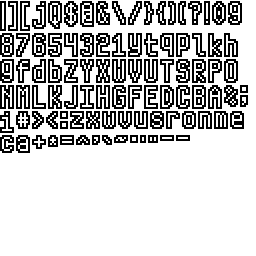
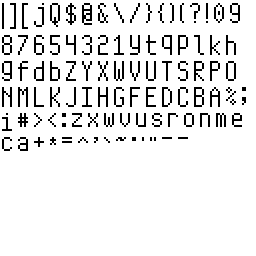
Pathfinding improvements, better font

diff --git a/CU/CU/GameGDX.cs b/CU/CU/GameGDX.cs
@@ -411,7 +411,9 @@ namespace CU
             {
                 batch.setColor(Color.BLACK);
                 largeFont.setColor(Color.BLACK); //(sp.large ? largeFont : font).
-                largeFont.draw(batch, "PAUSED", camera.position.x + 0, camera.position.y + 50);
+                font.setColor(Color.BLACK); //(sp.large ? largeFont : font).
+                largeFont.draw(batch, "PAUSED", camera.position.x + 12, camera.position.y + 50);
+                font.draw(batch, "Press Space to continue", camera.position.x - 23*2, camera.position.y + 0);
             }
             foreach (Speech sp in brain.speaking)
             {
@@ -459,6 +461,8 @@ namespace CU
             {
                 brain.dispose();
                 Timer.instance().stop();
+                Timer.instance().dispose();
+                
             }
             catch (Exception e)
             {

diff --git a/CU/CU/Logic.cs b/CU/CU/Logic.cs
@@ -1170,7 +1170,7 @@ UnitType.Armored,UnitType.Armored,UnitType.Armored,UnitType.Armored,UnitType.Arm
                                 radiate[mov.x, mov.y] = idx_dijk.Value + 1;
                                 if (gradient[mov.x, mov.y] < lowest)
                                 {
-                                    bestMoves.Clear();
+                                    //bestMoves.Clear();
                                     bestMoves.Add(new Position { x = mov.x - 1, y = mov.y - 1 });
                                     lowest = gradient[mov.x, mov.y];
                                 }

diff --git a/CU/CU/Timer.cs b/CU/CU/Timer.cs
@@ -96,6 +96,13 @@ namespace CU
 
             //}
         }
+        /** Disposes the timer and its resources. */
+        public void dispose()
+        {
+            //lock (inst) {
+            thread.dispose();
+            //}
+        }
         /** Pauses the timer, will this work??? */
         public void pause()
         {
